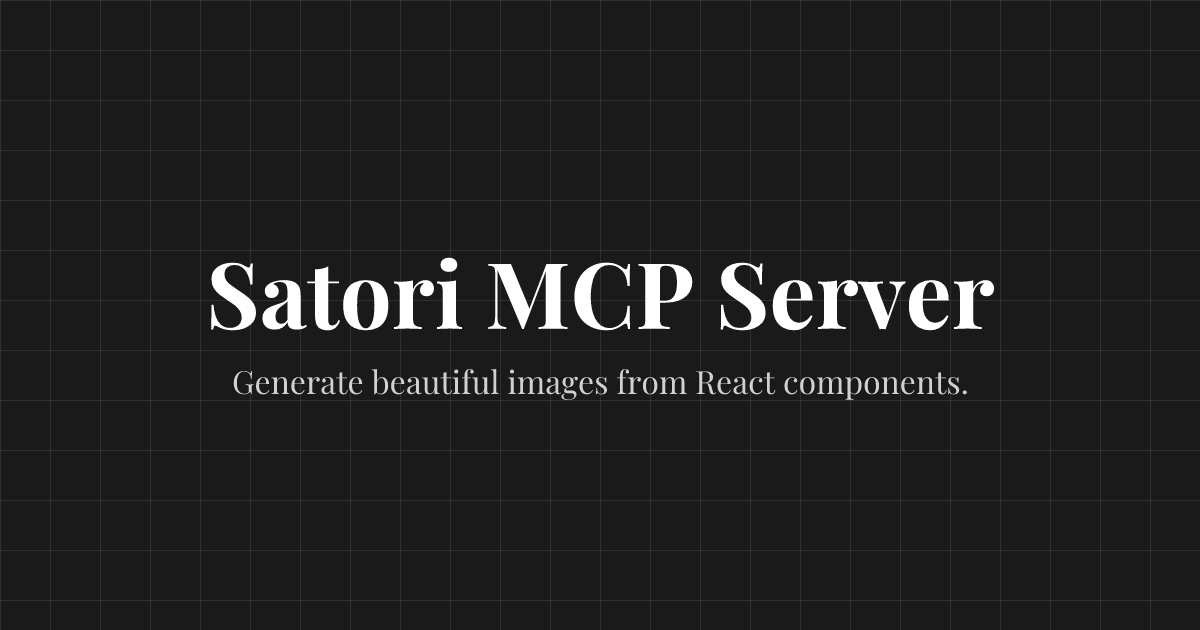
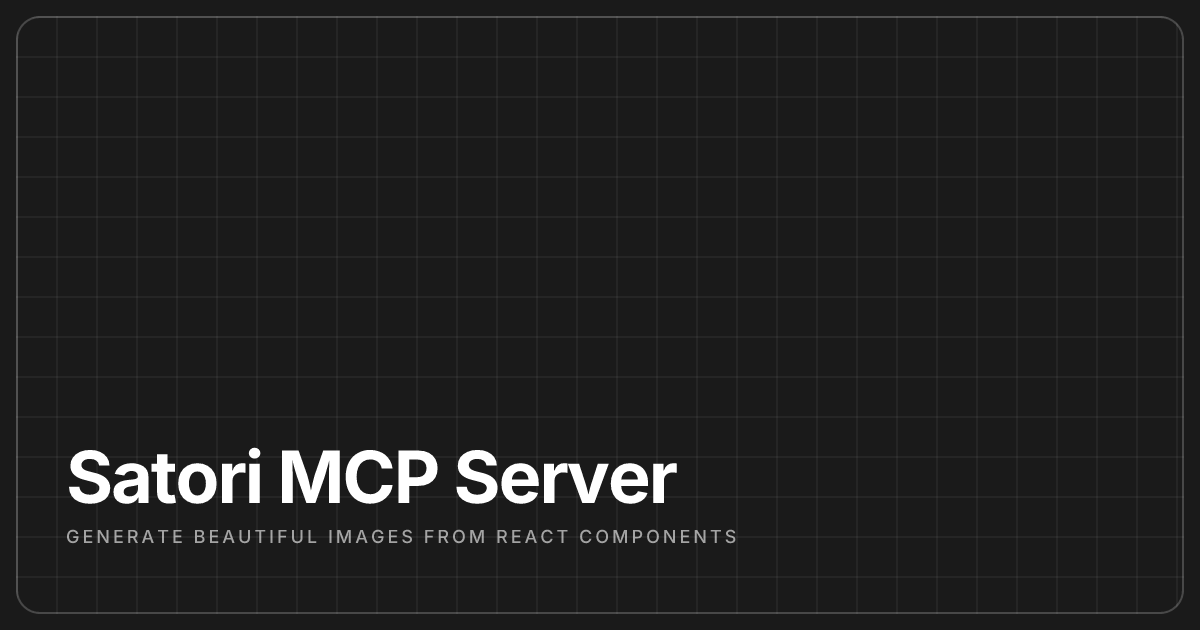
Replace social-card-grid with geometric template

diff --git a/src/templates/geometric.tsx b/src/templates/geometric.tsx
@@ -5,7 +5,7 @@ import { Template } from "./index";
 const geometricSchema = z.object({
   title: z.string().describe("Main title text for the social card"),
   description: z.string().optional().describe("Optional description text"),
-  background: z.string().optional().describe("CSS gradient background"),
+  background: z.string().optional().describe("Optional background color"),
 });
 
 export type GeometricParams = z.infer<typeof geometricSchema>;
@@ -16,7 +16,7 @@ export const geometricTemplate: Template<typeof geometricSchema> = {
   size: { width: 1200, height: 630 },
   fonts: [
     { name: "Inter", weight: 700, style: "normal" },
-    { name: "Inter", weight: 400, style: "normal" }
+    { name: "Inter", weight: 500, style: "normal" }
   ],
   schema: geometricSchema,
   generate: (params: GeometricParams) => {
@@ -27,7 +27,7 @@ export const geometricTemplate: Template<typeof geometricSchema> = {
         width: "100%",
         height: "100%",
         background: params.background || "#1a1a1a",
-        padding: "12px",
+        padding: "16px",
         boxSizing: "border-box",
       }}
     >
@@ -40,8 +40,8 @@ export const geometricTemplate: Template<typeof geometricSchema> = {
           width: "100%",
           height: "100%",
           backgroundImage: `
-            linear-gradient(rgba(255,255,255,0.05) 1px, transparent 1px),
-            linear-gradient(90deg, rgba(255,255,255,0.05) 1px, transparent 1px)
+            linear-gradient(rgba(255,255,255,0.05) 2px, transparent 2px),
+            linear-gradient(90deg, rgba(255,255,255,0.05) 2px, transparent 2px)
           `,
           backgroundSize: "40px 40px",
           color: "#ffffff",
@@ -61,24 +61,7 @@ export const geometricTemplate: Template<typeof geometricSchema> = {
           alignItems: "flex-start",
         }}
       >
-        <div style={{ display: "flex", flexDirection: "row", alignItems: "center", gap: "20px" }}>
-          {/* Logo icon */}
-          <svg
-            width="50"
-            height="50"
-            viewBox="0 0 50 50"
-            fill="none"
-            style={{ marginBottom: "10px" }}
-          >
-            <path
-              d="M25 5L40 15V35L25 45L10 35V15L25 5Z"
-              stroke="white"
-              strokeWidth="2"
-              fill="none"
-            />
-            <circle cx="25" cy="25" r="8" fill="white" />
-          </svg>
-
+        <div style={{ display: "flex", flexDirection: "row", alignItems: "flex-start", gap: "20px" }}>
           <h1
             style={{
               fontSize: "72px",
@@ -93,89 +76,17 @@ export const geometricTemplate: Template<typeof geometricSchema> = {
 
         <p
           style={{
-            fontSize: "14px",
-            fontWeight: 400,
+            fontSize: "18px",
+            fontWeight: 500,
             textTransform: "uppercase",
             letterSpacing: "3px",
             opacity: 0.6,
-            marginTop: "10px",
-            marginLeft: "70px",
+            marginTop: "6px",
+            marginLeft: "0",
           }}
         >
           {params.description}
         </p>
-      </div>
-
-      {/* Right side - Geometric shapes */}
-      <div
-        style={{
-          display: "flex",
-          flexDirection: "column",
-          position: "absolute",
-          right: "60px",
-          top: "50%",
-          transform: "translateY(-50%)",
-          width: "400px",
-          height: "300px",
-        }}
-      >
-        {/* Simple geometric shapes */}
-        <svg
-          width="400"
-          height="300"
-          viewBox="0 0 400 300"
-          fill="none"
-          style={{ opacity: 0.2 }}
-        >
-          {/* Large circle */}
-          <circle
-            cx="200"
-            cy="150"
-            r="80"
-            stroke="rgba(255,255,255,0.5)"
-            strokeWidth="1"
-            fill="none"
-          />
-
-          {/* Triangle */}
-          <path
-            d="M 320 100 L 370 180 L 270 180 Z"
-            stroke="rgba(255,255,255,0.4)"
-            strokeWidth="1"
-            fill="none"
-          />
-
-          {/* Square */}
-          <rect
-            x="50"
-            y="200"
-            width="60"
-            height="60"
-            stroke="rgba(255,255,255,0.3)"
-            strokeWidth="1"
-            fill="none"
-          />
-
-          {/* Hexagon */}
-          <path
-            d="M 150 50 L 190 30 L 230 50 L 230 90 L 190 110 L 150 90 Z"
-            stroke="rgba(255,255,255,0.4)"
-            strokeWidth="1"
-            fill="none"
-          />
-
-          {/* Diamond */}
-          <path
-            d="M 100 120 L 130 150 L 100 180 L 70 150 Z"
-            stroke="rgba(255,255,255,0.3)"
-            strokeWidth="1"
-            fill="none"
-          />
-
-          {/* Small circles */}
-          <circle cx="340" cy="240" r="20" stroke="rgba(255,255,255,0.3)" strokeWidth="1" fill="none" />
-          <circle cx="280" cy="60" r="15" stroke="rgba(255,255,255,0.2)" strokeWidth="1" fill="none" />
-        </svg>
       </div>
       </div>
     </div>

diff --git a/src/templates/index.ts b/src/templates/index.ts
@@ -3,7 +3,6 @@ import { z } from "zod";
 import { Font } from "../helpers/fonts";
 import { socialCardTemplate } from "./social-card";
 import { blogHeaderTemplate } from "./blog-header";
-import { socialCardGridTemplate } from "./social-card-grid";
 import { quoteTemplate } from "./quote";
 import { geometricTemplate } from "./geometric";
 
@@ -19,7 +18,6 @@ export interface Template<T extends z.ZodType = z.ZodType> {
 export const templates: Record<string, Template<any>> = {
   "social-card": socialCardTemplate,
   "blog-header": blogHeaderTemplate,
-  "social-card-grid": socialCardGridTemplate,
   "quote": quoteTemplate,
   "geometric": geometricTemplate,
 };
